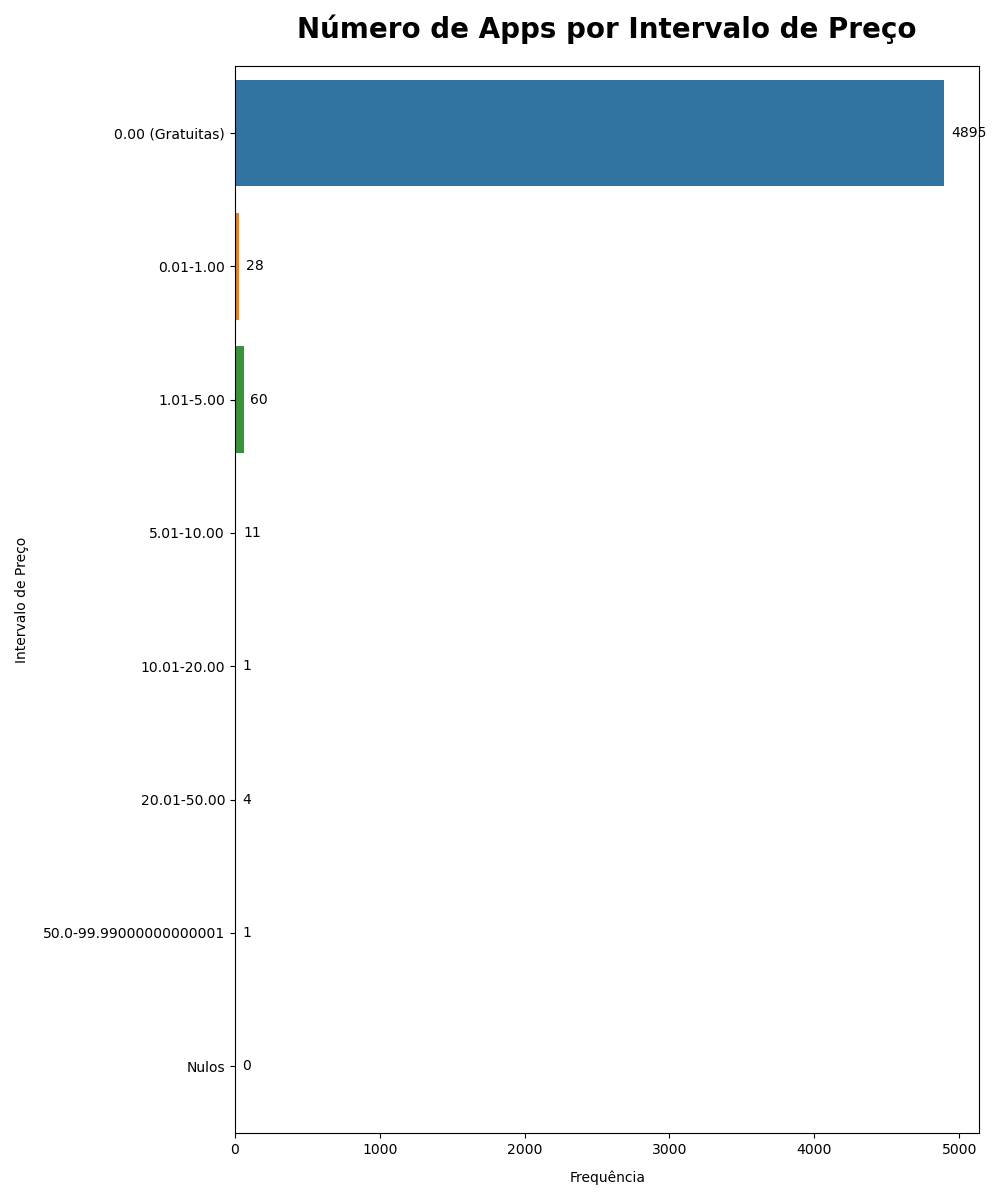
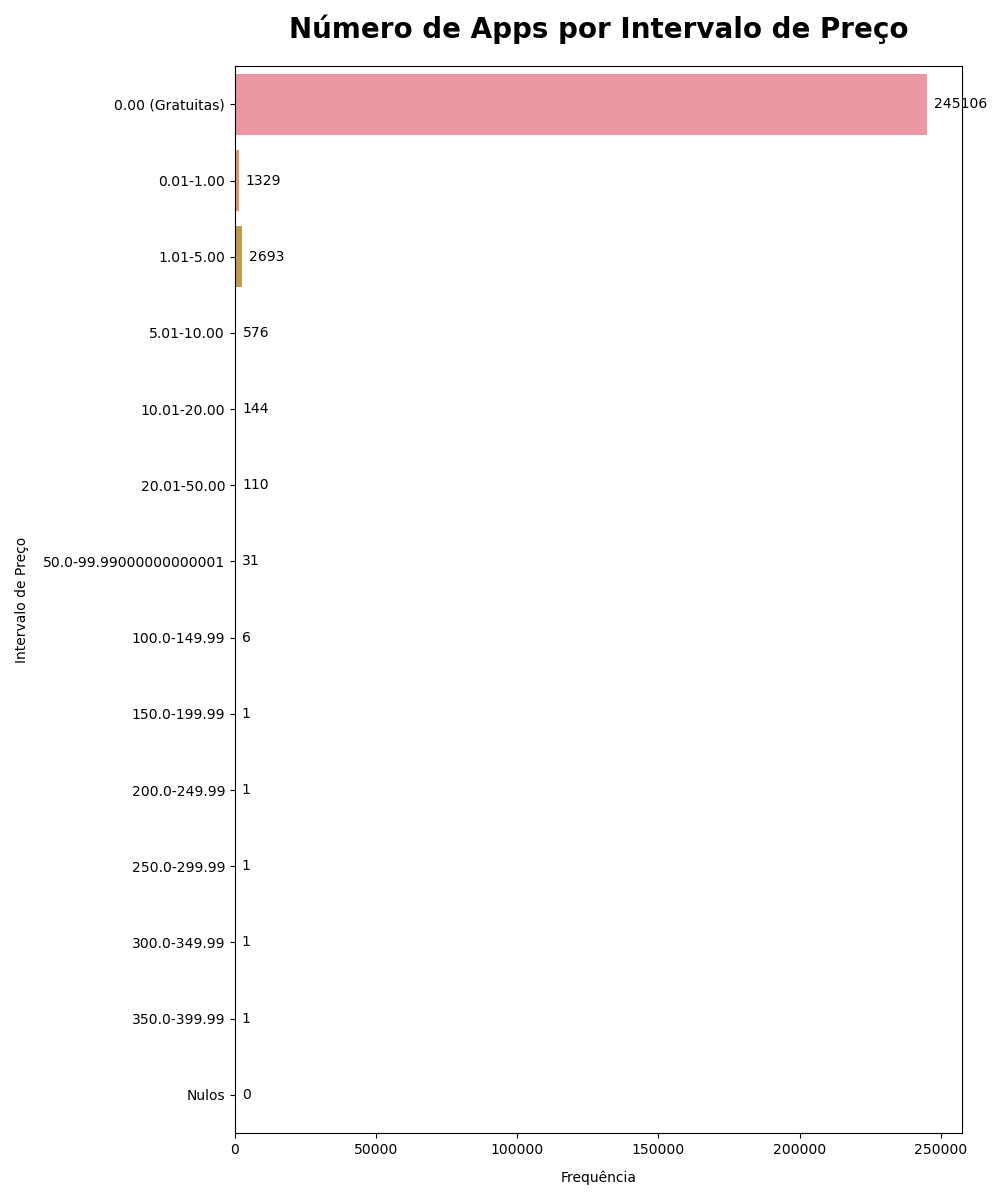
V0.7.2
Tirados os algoritmos Logistic Regression e K-Means como a professora pediu

diff --git a/parte2_PCA+CV.py b/parte2_PCA+CV.py
@@ -139,12 +139,12 @@ models = {}
 models['Linear Regression'] = evaluate_model('Linear Regression', LinearRegression(), X_train, y_train, X_test, y_test)
 models['Ridge Regression'] = evaluate_model('Ridge Regression', Ridge(alpha=1.0), X_train, y_train, X_test, y_test)
 models['Lasso Regression'] = evaluate_model('Lasso Regression', Lasso(alpha=1.0), X_train, y_train, X_test, y_test)
-models['Logistic Regression'] = evaluate_model('Logistic Regression', LogisticRegression(), X_train, y_train, X_test, y_test)
+
 models['SVR (linear kernel)'] = evaluate_model('SVR (linear kernel)', SVR(kernel='linear'), X_train, y_train, X_test, y_test)
 models['SVR (rbf kernel)'] = evaluate_model('SVR (rbf kernel)', SVR(kernel='rbf'), X_train, y_train, X_test, y_test)
 models['K-NN'] = evaluate_model('K-NN', KNeighborsRegressor(n_neighbors=2), X_train, y_train, X_test, y_test)
 models['Decision Tree'] = evaluate_model('Decision Tree', DecisionTreeRegressor(), X_train, y_train, X_test, y_test)
-models['K_Means'] = evaluate_model('K_Means', KMeans(n_clusters=4), X_train, y_train, X_test, y_test)
+
 models['Random Forest'] = evaluate_model('Random Forest', RandomForestRegressor(n_estimators=200), X_train, y_train, X_test, y_test)
 models['Neural Network (single layer)'] = evaluate_model('Neural Network (single layer)', MLPRegressor(hidden_layer_sizes=(10000,), max_iter=10000), X_train, y_train, X_test, y_test)
 models['Neural Network (multi layer)'] = evaluate_model('Neural Network (multi layer)', MLPRegressor(hidden_layer_sizes=(100, 50), max_iter=10000), X_train, y_train, X_test, y_test)

diff --git a/parte2_PCA.py b/parte2_PCA.py
@@ -139,12 +139,12 @@ models = {}
 models['Linear Regression'] = evaluate_model('Linear Regression', LinearRegression(), X_train, y_train, X_test, y_test)
 models['Ridge Regression'] = evaluate_model('Ridge Regression', Ridge(alpha=1.0), X_train, y_train, X_test, y_test)
 models['Lasso Regression'] = evaluate_model('Lasso Regression', Lasso(alpha=1.0), X_train, y_train, X_test, y_test)
-models['Logistic Regression'] = evaluate_model('Logistic Regression', LogisticRegression(), X_train, y_train, X_test, y_test)
+
 models['SVR (linear kernel)'] = evaluate_model('SVR (linear kernel)', SVR(kernel='linear'), X_train, y_train, X_test, y_test)
 models['SVR (rbf kernel)'] = evaluate_model('SVR (rbf kernel)', SVR(kernel='rbf'), X_train, y_train, X_test, y_test)
 models['K-NN'] = evaluate_model('K-NN', KNeighborsRegressor(n_neighbors=2), X_train, y_train, X_test, y_test)
 models['Decision Tree'] = evaluate_model('Decision Tree', DecisionTreeRegressor(), X_train, y_train, X_test, y_test)
-models['K_Means'] = evaluate_model('K_Means', KMeans(n_clusters=4), X_train, y_train, X_test, y_test)
+
 models['Random Forest'] = evaluate_model('Random Forest', RandomForestRegressor(n_estimators=200), X_train, y_train, X_test, y_test)
 models['Neural Network (single layer)'] = evaluate_model('Neural Network (single layer)', MLPRegressor(hidden_layer_sizes=(10000,), max_iter=10000), X_train, y_train, X_test, y_test)
 models['Neural Network (multi layer)'] = evaluate_model('Neural Network (multi layer)', MLPRegressor(hidden_layer_sizes=(100, 50), max_iter=10000), X_train, y_train, X_test, y_test)

diff --git a/codigo_anterior_parte2.py b/codigo_anterior_parte2.py
@@ -26,7 +26,7 @@ full_path = os.path.join(file_path, file_name)
 
 #Start CSV File Reading
 #Ler-se-ão apenas as primeiras 30000 linhas do arquivo
-dfGPlayStore = pd.read_csv(full_path,nrows=5000)
+dfGPlayStore = pd.read_csv(full_path,nrows=250000)
 #dfGPlayStore = pd.read_csv(full_path) #descomentar para usar o dataset enteiro. comentar a linha de cima #dfGPlayStore = dfGPlayStore.dropna()
 #CSV File Reading Finished
 
@@ -768,10 +768,10 @@ models = {
     'Linear Regression': LinearRegression(),
     'Ridge Regression': Ridge(alpha=1.0),
     'Lasso Regression': Lasso(alpha=1.0),
-    'Logistic Regression': LogisticRegression(),
+    #'Logistic Regression': LogisticRegression(),
     'K-Nearest Neighbors(regressor)': KNeighborsRegressor(n_neighbors=5),
     'K-Nearest Neighbors(classifier)': KNeighborsClassifier(n_neighbors=5),
-    'k_Means': KMeans(n_clusters=4),
+    #'k_Means': KMeans(n_clusters=4),
     'Decision Tree': DecisionTreeRegressor(),
     'Random Forest': RandomForestRegressor(),
     'Neural Network(single layer)': MLPRegressor(hidden_layer_sizes=(10,), max_iter=1000),

diff --git a/Interface.py b/Interface.py
@@ -4,7 +4,8 @@ from tkinter import messagebox, ttk
 import numpy as np
 import pandas as pd
 import joblib
-'''from sklearn.model_selection import train_test_split
+'''
+from sklearn.model_selection import train_test_split
 from sklearn.linear_model import LinearRegression, Ridge, Lasso, LogisticRegression
 from sklearn.cluster import KMeans
 from sklearn.metrics import r2_score, mean_absolute_error, mean_squared_error
@@ -20,7 +21,8 @@ from sklearn.neural_network import MLPRegressor
 from sklearn.decomposition import PCA
 import matplotlib.pyplot as plt
 import graphviz
-from IPython.display import Image'''
+from IPython.display import Image
+'''
 
 # Load the trained model
 #try:
